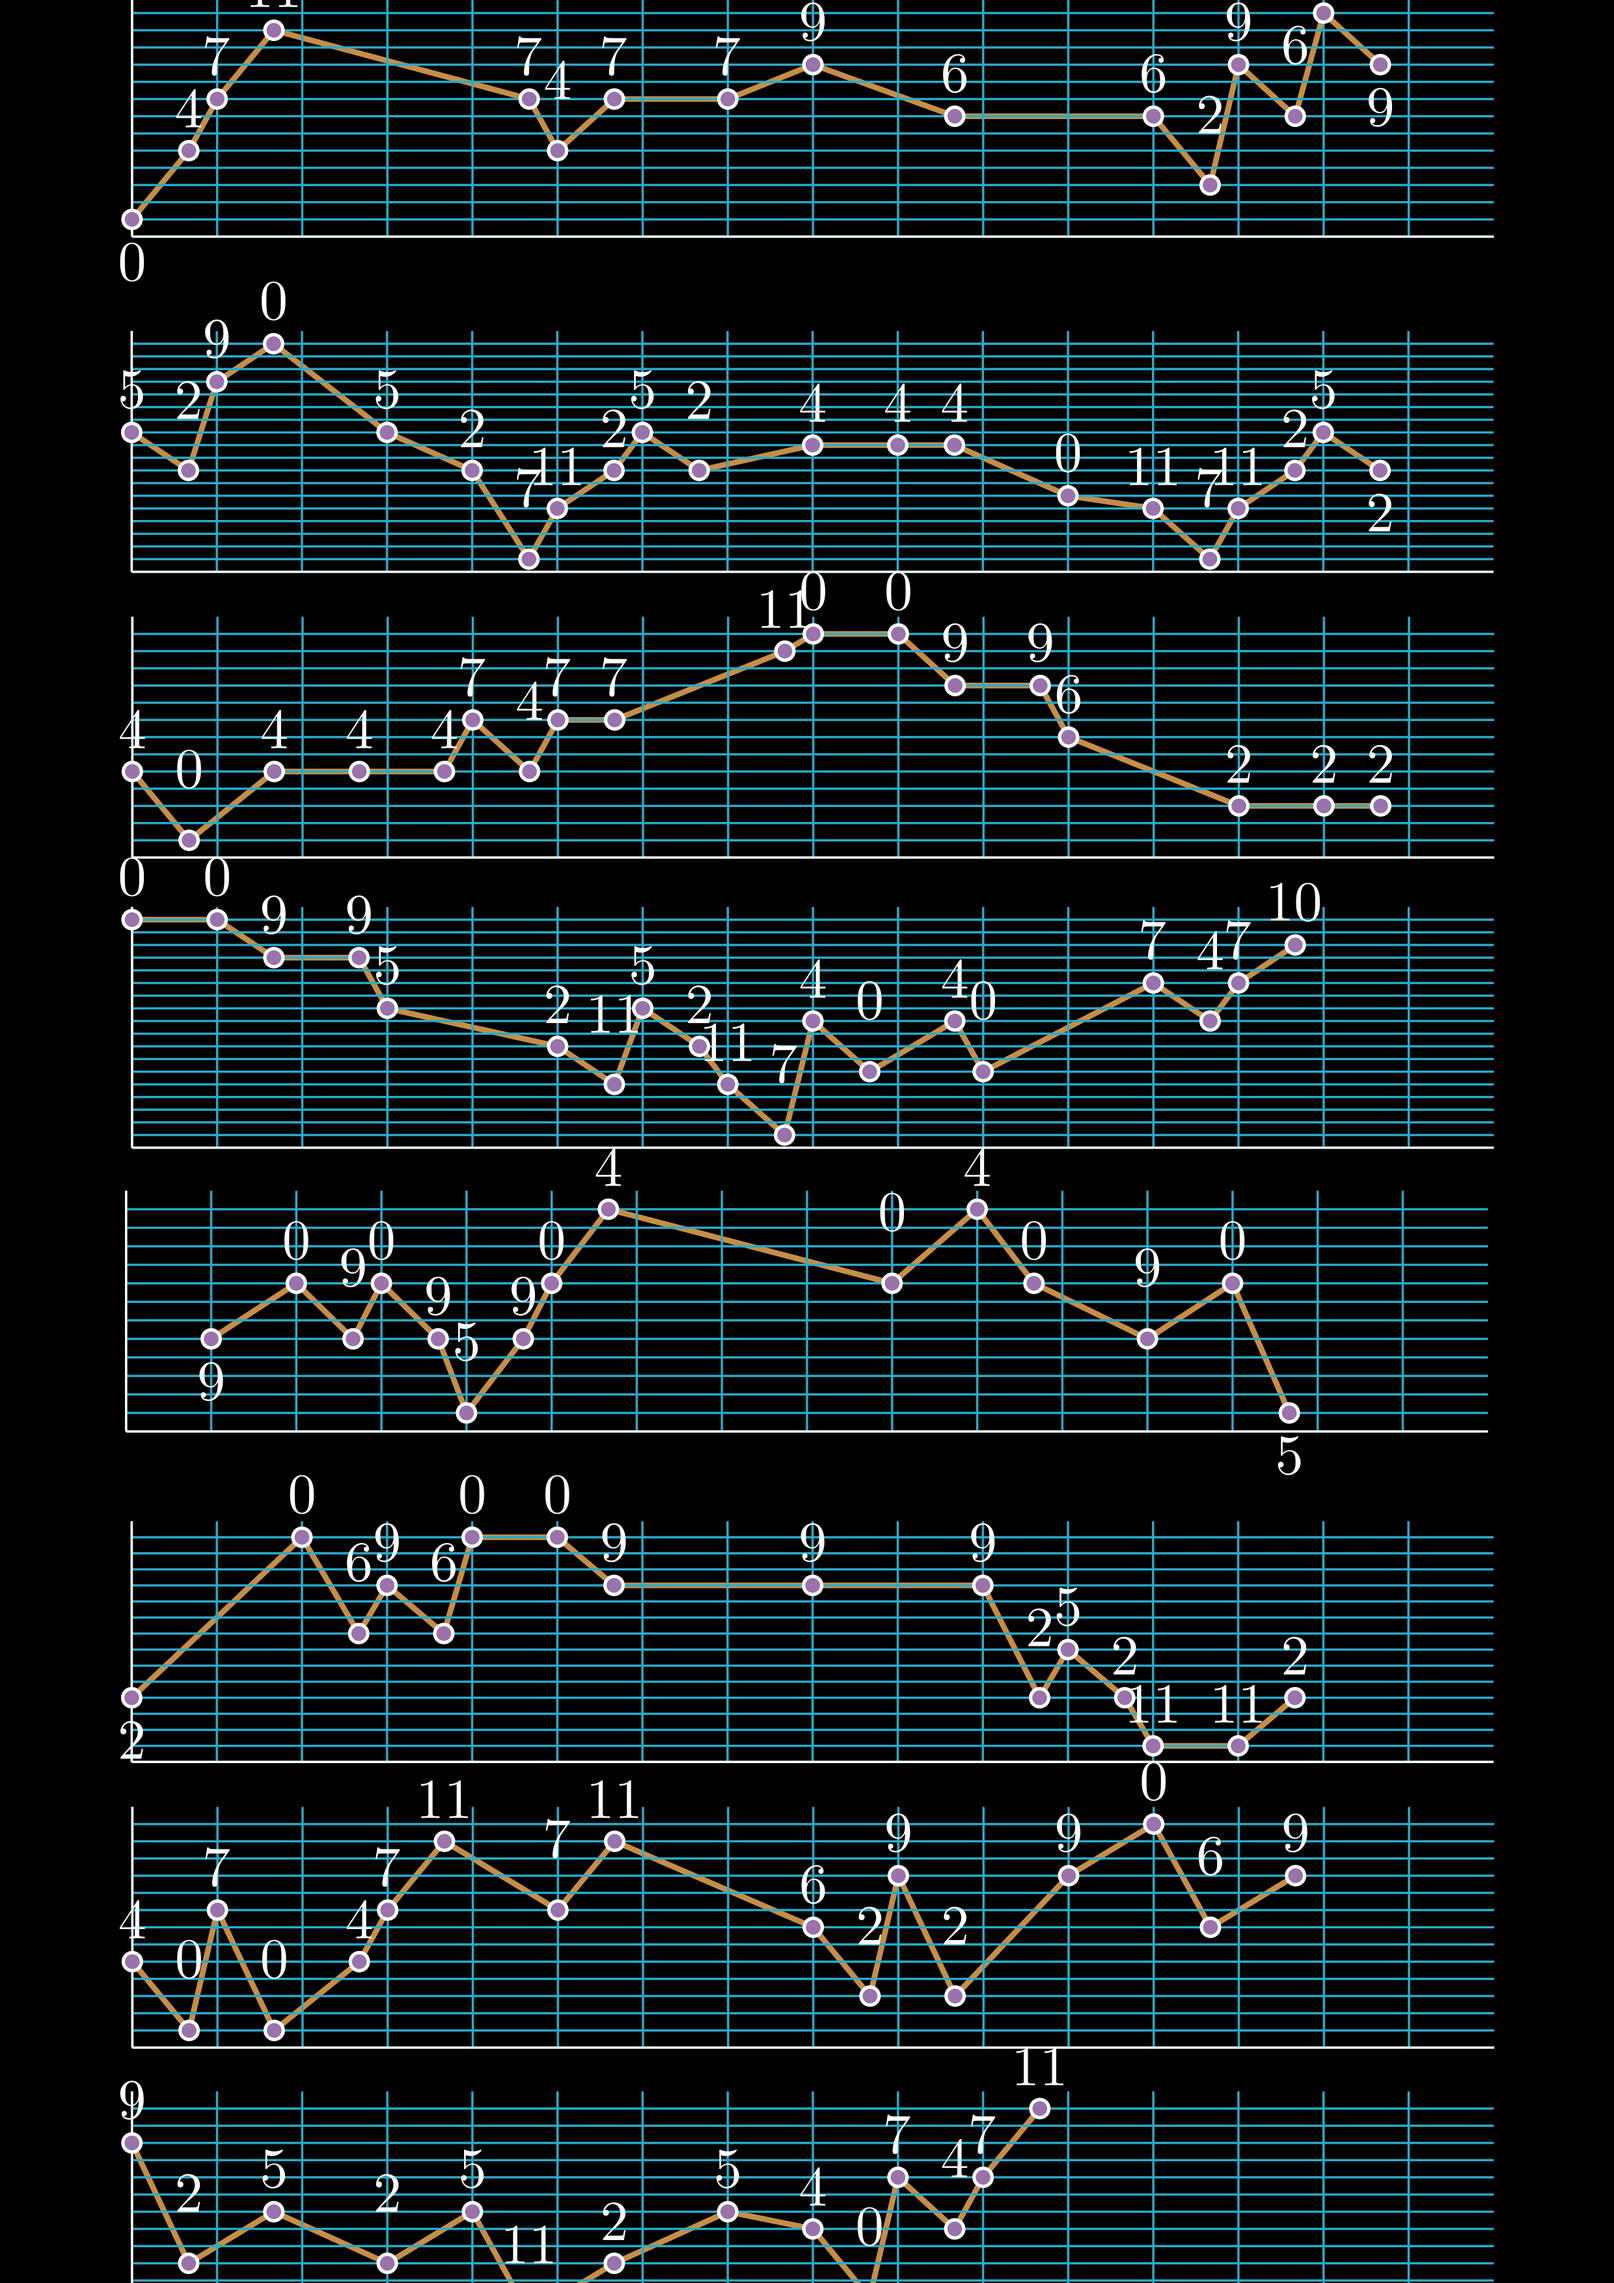
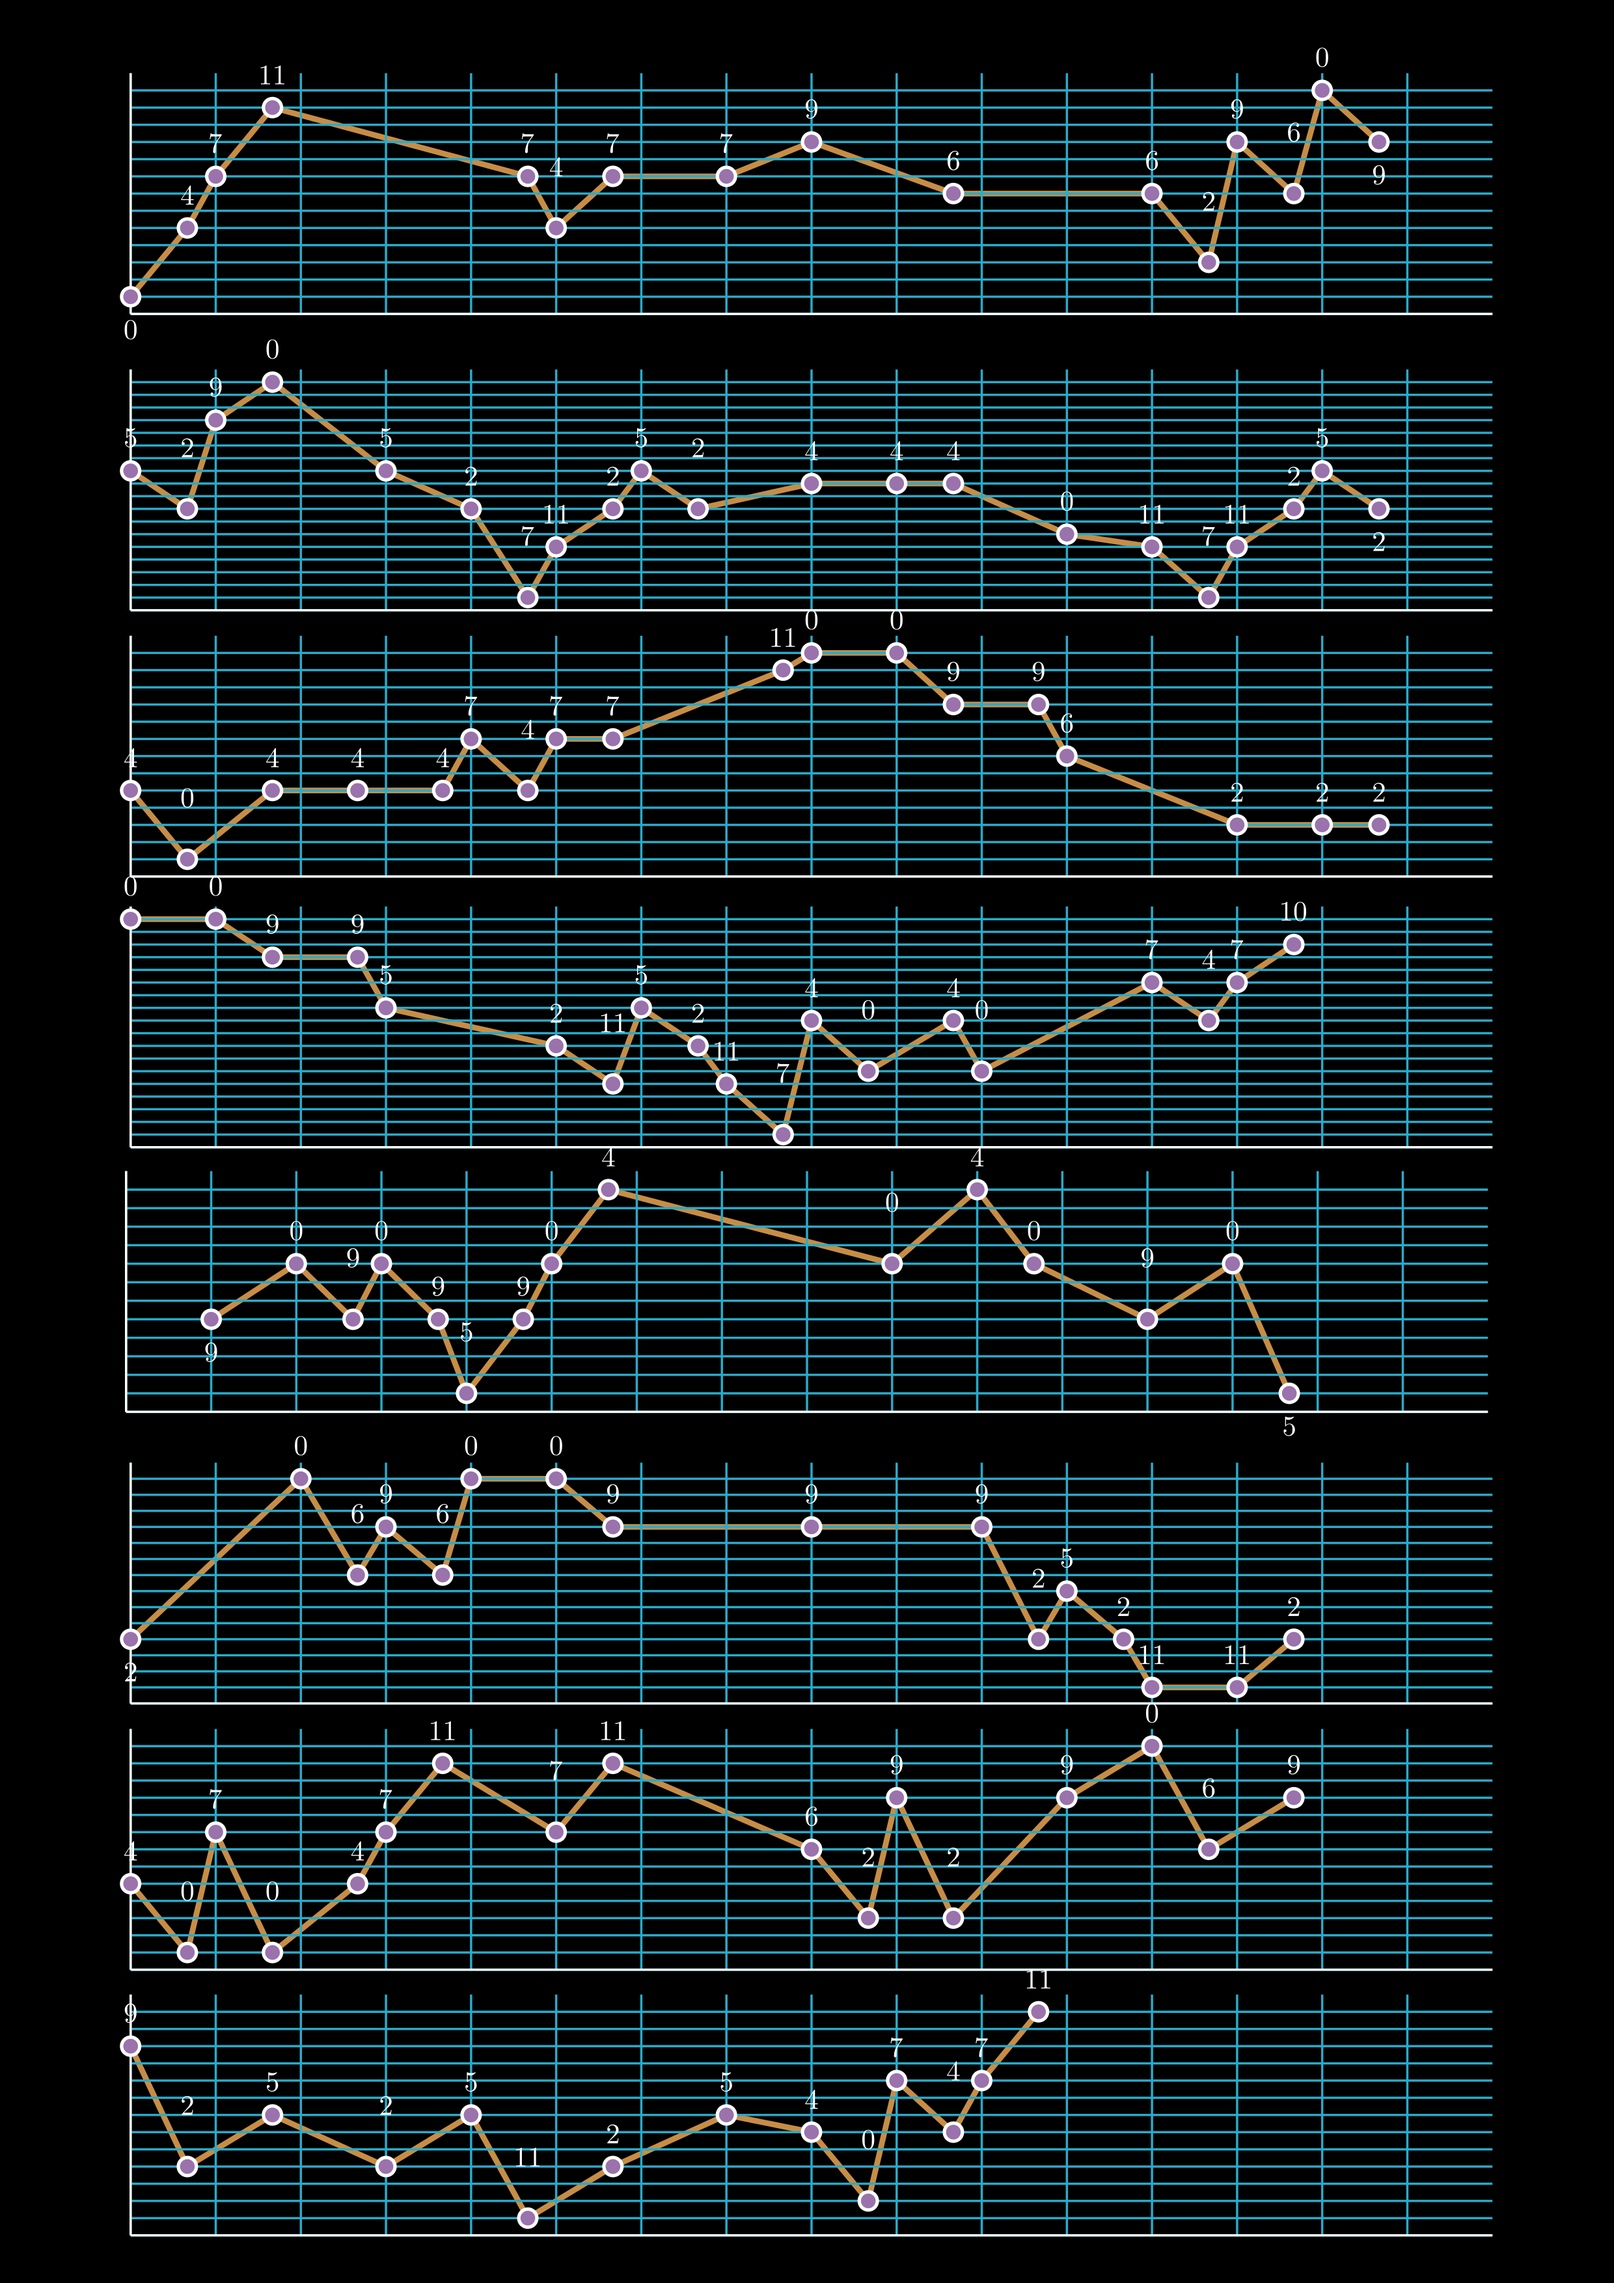
create melody sheet

Changed region(s): [[0.0621, 0.0, 0.9315, 1.0]]

diff --git a/line_graph.py b/line_graph.py
@@ -70,8 +70,8 @@ def create_line_graph(x_values, y_values, x_start, x_end, width, height ):
 
         # add z componenent
         annotate_offset.append(0)
-        print(annotate_offset, RIGHT)
-        labels.add(Tex(str(y_values[i] % 12)).next_to(line_graph["vertex_dots"][i], np.array(annotate_offset)))
+        label = Tex(str(y_values[i] % 12)).scale(.5)
+        labels.add(label.next_to(line_graph["vertex_dots"][i], np.array(annotate_offset)))
 
 
     return VGroup(plane, line_graph, labels)
